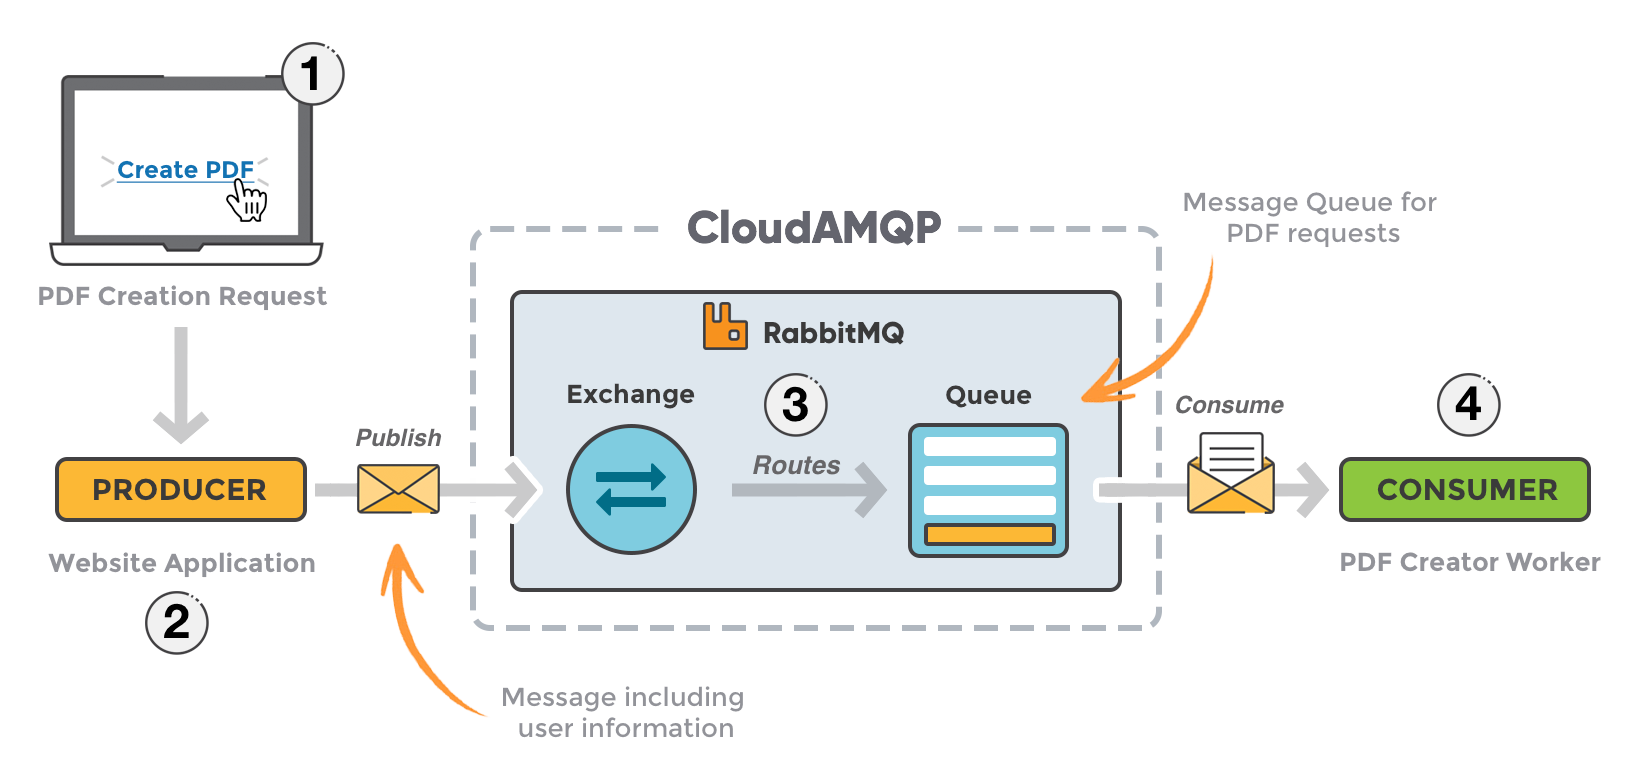
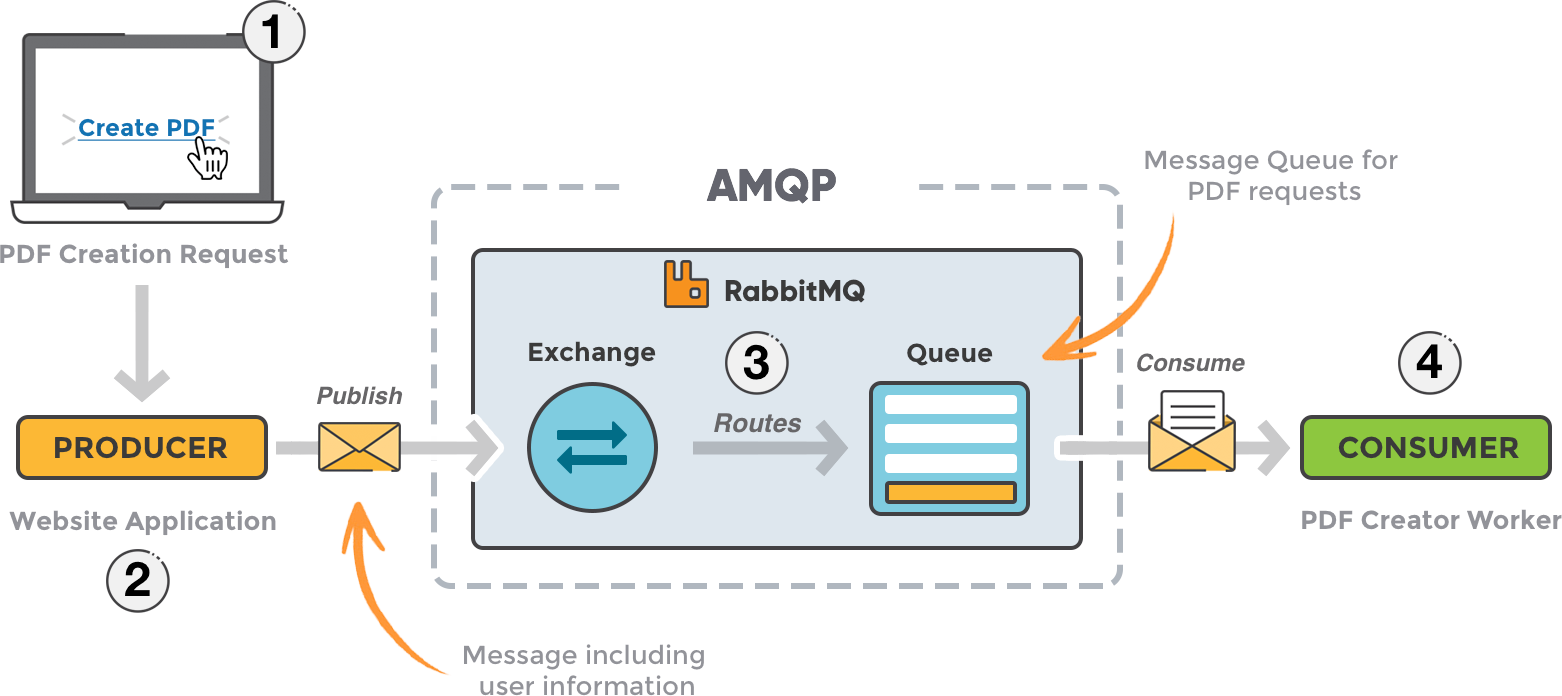
#major camera ready

Changed region(s): [[0.0, 0.2112, 1.0, 1.0], [0.0, 0.0, 0.2151, 0.3922]]

diff --git a/sd-lab-queues.tex b/sd-lab-queues.tex
@@ -92,13 +92,13 @@
 
                 \item commonly, \alert{non-blocking}
 
-                \smallskip
-
-                \item commonly backed by ad-hoc \alert{protocols}
-                %
-                \begin{itemize}
-                    \item[eg] AMQP, MQTT, etc.
-                \end{itemize}
+%                \smallskip
+%
+%                \item commonly backed by ad-hoc \alert{protocols}
+%                %
+%                \begin{itemize}
+%                    \item[eg] AMQP, MQTT, etc.
+%                \end{itemize}
             \end{itemize}
         \end{column}
     \end{columns}
@@ -200,33 +200,61 @@
 
 \begin{frame}{Workflow}
 
+
+    \begin{center}
+        \includegraphics[width=.7\linewidth]{img/rabbitmq.png}
+    \end{center}
+     %
+    \vfill
+    %
+    \begin{itemize}
+        \item[1-2] a producer \alert{publishes} a message towards an \alert{exchange}
+
+        \vfill
+
+        \item[3] the exchange \alert{routes} a \emph{copy} of the message to \emph{a subset of} the queues which are \alert{bound} to the exchange
+
+        \vfill
+
+        \item[3] messages are buffered on the \alert{queues} (hosted by the \alert{broker})
+
+        \vfill
+
+        \item[4] consumers orderly \alert{get} messages from queues
+    \end{itemize}
+
+\end{frame}
+
+\begin{frame}{Binding}
+
     \begin{columns}
         \begin{column}{.5\linewidth}
             \includegraphics[width=\linewidth]{img/binding.png}
         \end{column}
         \begin{column}{.5\linewidth}
             \begin{itemize}
-                \item[1-2] a \alert{producer} sends a message towards an \alert{exchange}
-
-                \medskip
-
-                \item[3] the exchange forwards a \emph{copy} of the message to \emph{a subset of} the queues which are \alert{bound} to the exchange
+                \item both exchanges and queues must be \alert{declared by name}\footnotemark
                 %
                 \begin{itemize}
-                    \item a \alert{binding} primitive is available
-                    \item the subsets depends on the routing
+                    \item i.e. \alert{allocated} on the broker
                 \end{itemize}
 
                 \medskip
 
-                \item[4] messages are buffered on the \alert{queues} (hosted by the \alert{broker})
+                \item this implies they'll eventually need to be \alert{disposed}\textsuperscript{\ref{whocan}}
 
                 \medskip
 
-                \item[5] consumers orderly pull messages from queues
+                \item they are \alert{referenced by name}\textsuperscript{\ref{whocan}} during their life span
+
+                \medskip
+
+                \item queue must be \alert{bound}\textsuperscript{\ref{whocan}} to exchanges (step 3)
             \end{itemize}
         \end{column}
     \end{columns}
+
+    \footnotetext{\label{whocan}this can be performed by both producers and consumers}
 
 \end{frame}
 
@@ -279,6 +307,10 @@
             \item have been bound to the exchange with a \alert{topic}\ldots
             \item \ldots \alert{matching} the routing key
         \end{enumerate}
+
+        \bigskip
+
+        \item[$\rightarrow$] Queue binding $\approx$ Subscription to topic
     \end{itemize}
 
     \framebreak
@@ -302,51 +334,130 @@
 
 \end{frame}
 
+\begin{frame}{Queues can be}
+
+    \begin{description}
+        \item[server-named] | its name is meaningless for the client, and it is auto-generated by the broker
+
+        \vfill
+
+        \item[exclusive] | can only be used by the entity which declared it, and for as long as its connection to the broker holds
+
+        \vfill
+
+        \item[durable] | the queue is made persistent on the broker-side (i.e., it should survive a broker restart)
+
+        \vfill
+
+        \item[auto-delete] | the queue will be automatically disposed when no longer in use
+    \end{description}
+
+\end{frame}
+
+\begin{frame}{Channels vs. Connections}
+
+    \begin{itemize}
+        \item producers/consumers must \alert{connect} to the broker
+
+        \vfill
+
+        \item within the scope of a connection, one or more \alert{channels} may be created
+
+        \vfill
+
+        \item via channels producers/consumers can manipulate exchanges and queues
+
+        \vfill
+
+        \item any unexpected action shall close the channel, but not the connection
+
+    \end{itemize}
+
+    \vfill
+
+    \begin{block}{Rule of thumb}
+        \begin{itemize}
+            \item one connection per producer/consumer
+            \item one channel per interaction
+        \end{itemize}
+    \end{block}
+
+\end{frame}
+
 \section{Exercises}
 
-\subsection{First Exercise}
-
-\startExercise
-
-\begin{frame}[allowframebreaks]
-	\frametitle{Exercise \currentExercise{} -- First Exercise}
+\begin{frame}
+	\frametitle{Overview}
 
 	\begin{block}{Repository}\centering
 		\url{\labRepo}
 	\end{block}
 
-	\bigskip
+	\vfill
 
 	Activity:
 	%
-	\medskip
+	\vfill
 	%
 	\begin{enumerate}
-		\item Have a look to the provided code
+		\item Clone the repo onto a \alert{Docker-enabled} host
 
-		\medskip
+		\vfill
 
-		\item Read the \texttt{README.md} file to figure out what to do
+		\item Start a RabbitMQ service via the provided Docker Compose file:
+        %
+        \begin{itemize}
+            \item[\$] \texttt{docker-compose up}
+            %
+            \begin{itemize}
+                \item launch this command into the directory containing the \texttt{docker-compose.yaml} file
+            \end{itemize}
+        \end{itemize}
 
-		\framebreak
+        \vfill
 
-		\item[!] Solutions which do not pass the tests are not correct
-		%
-		\begin{itemize}
-			\item tests are provided as Bash scripts, for *nix systems
-		\end{itemize}
+        \item Browse to \url{http://localhost:8080} to use the dashboard
+        %
+        \begin{itemize}
+            \item log in with the credentials from the \texttt{docker-compose.yaml} file
+        \end{itemize}
 
-		\medskip
+        \vfill
 
-		\item Push your solution on GitLab, \alert{even if incomplete}
-		%
-		\begin{itemize}
-			\item use the \texttt{submissions/\alert{name.surnameN}} branch
-			\item tests are automatically run upon push: consider it a feedback
-		\end{itemize}
+        \item Follow the teacher's explanation and complete the exercises
 
 	\end{enumerate}
 
+\end{frame}
+
+\subsection{Master-Worker}
+
+\startExercise
+
+\begin{frame}{Exercise \currentExercise{} -- Master-Worker}
+    \begin{block}{Goal}
+        Exploit queues to support a simple master-worker scenario where a master leverages upon an arbitrary amount of workers to count the vowels in its standard input
+    \end{block}
+\end{frame}
+
+\startExercise
+
+\begin{frame}{Exercise \currentExercise{} -- Instant Messaging}
+    \begin{block}{Goal}
+        Exploit queues to support a simple command-line instant messaging application for groups of $N \geq 2$ people
+        %
+        %
+        \begin{itemize}
+            \item each user is identified by a username
+            \item each user should use it terminal to both write and read messages
+            \item writing a line on the local standard input should propagate the message to all peers
+            \item all received messages should be logged onto the local standard output
+            %
+            \begin{itemize}
+                \item along with the sender's username
+            \end{itemize}
+        \end{itemize}
+    \end{block}
 \end{frame}
 
 %===============================================================================
